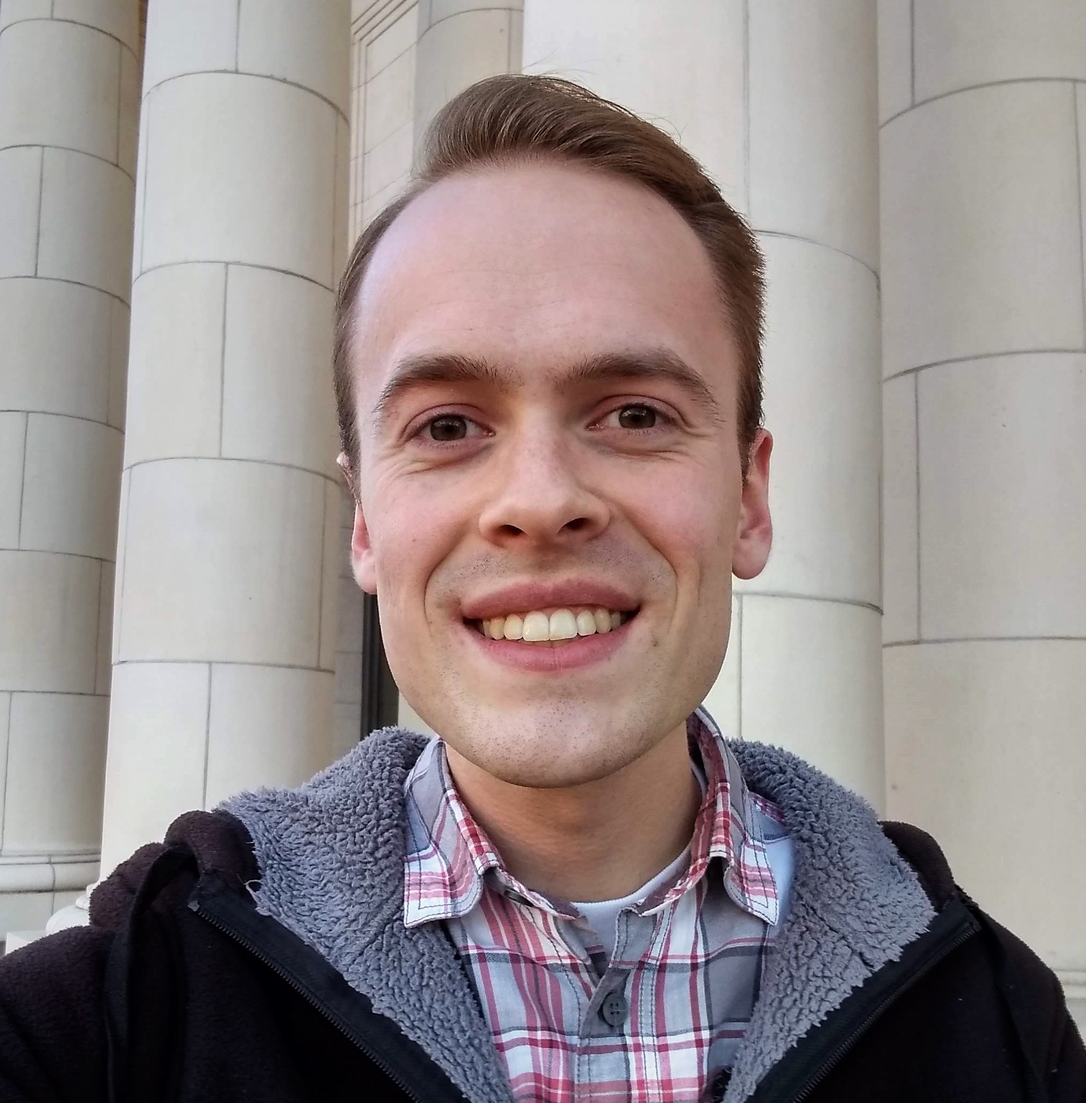
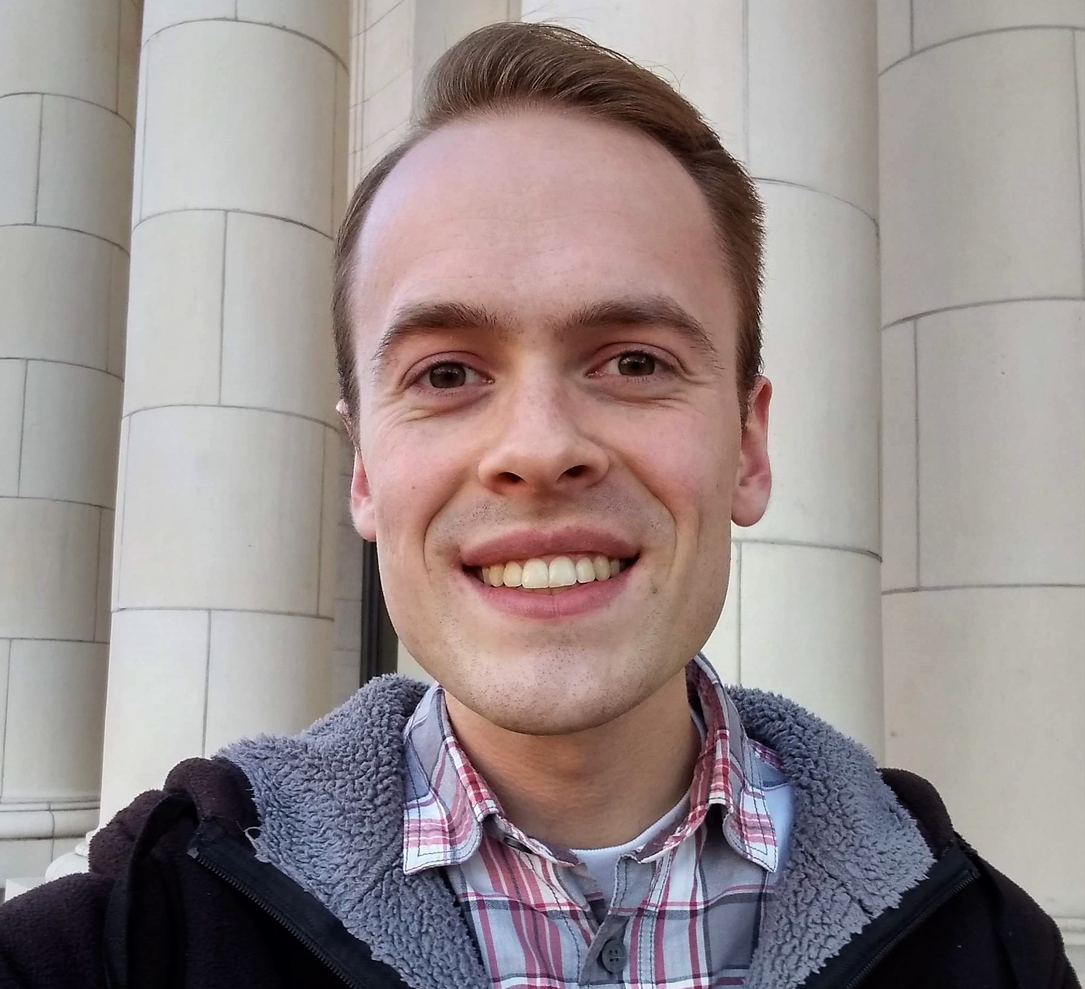
Change pic

diff --git a/index.html b/index.html
@@ -26,12 +26,14 @@
 		
 			<div class="w3-white w3-text-grey w3-card-4">
 				<div class="w3-display-container">
-					<img src="/img/20220213.jpg" style="width:100%" alt="Avatar">
-					<div class="w3-display-bottomleft w3-container w3-text-black">
-						<h2 class="w3-text-light-grey w3-dark-grey">Jonathan Knight Black</h2>
-					</div>
+					<img src="/img/tree.jpg" style="width:100%" alt="Avatar">
+					<!-- <div class="w3-display-bottomleft w3-container w3-text-black"> -->
+						<!-- <h2 class="w3-text-light-grey w3-dark-grey">Jonathan Knight Black</h2> -->
+					<!-- </div> -->
 				</div>
 				<div class="w3-container">
+					<h2>Jonathan Knight Black</h2>
+					
 					<p>
 						<i class="fa fa-briefcase fa-fw w3-margin-right w3-large w3-text-teal"></i>
 						Graduate Research Assistant
